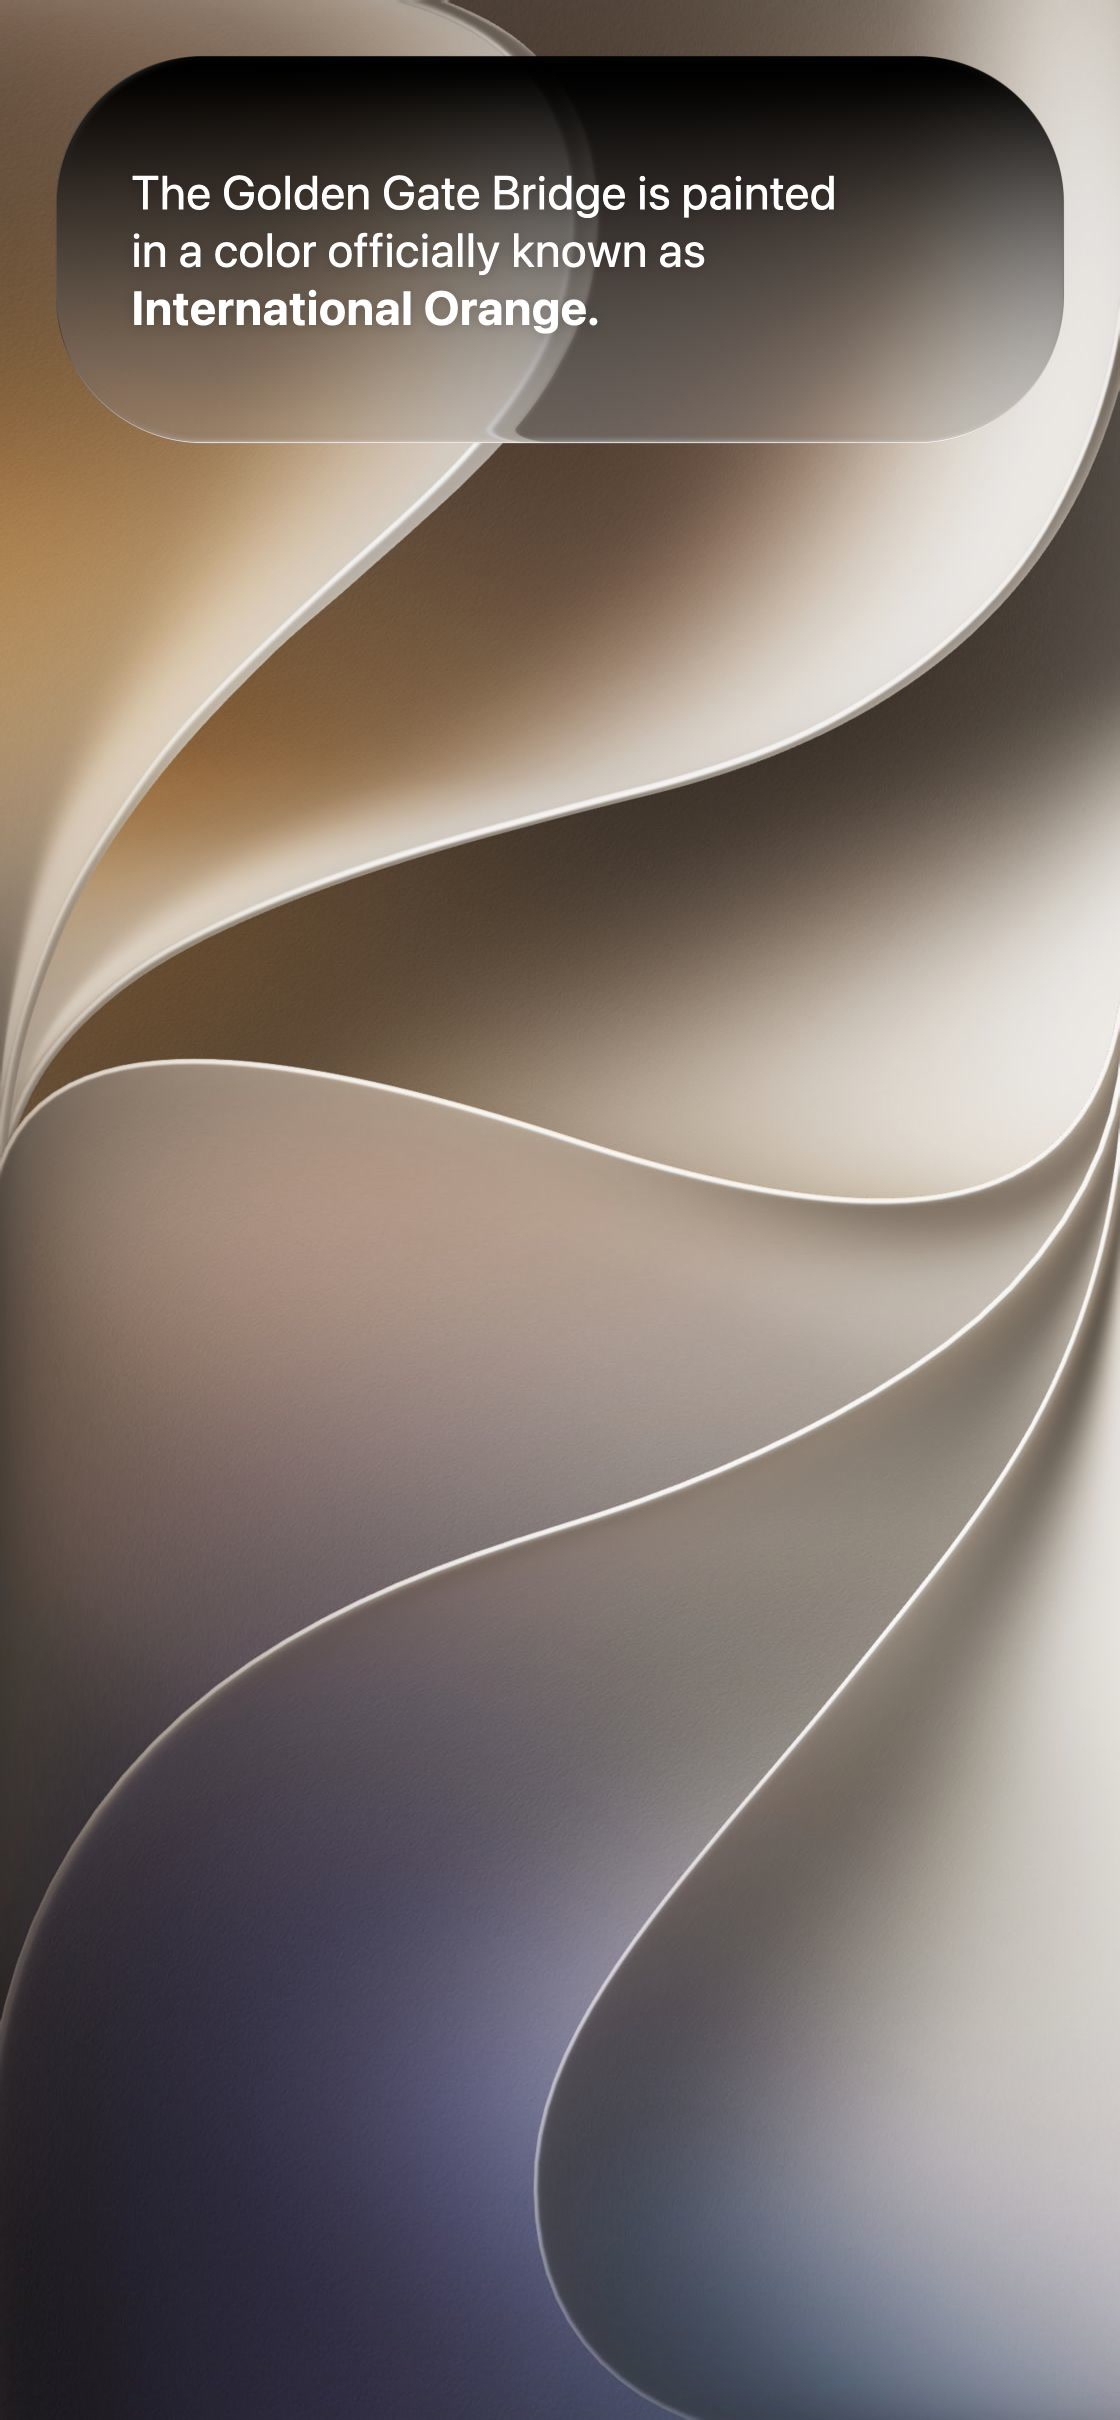
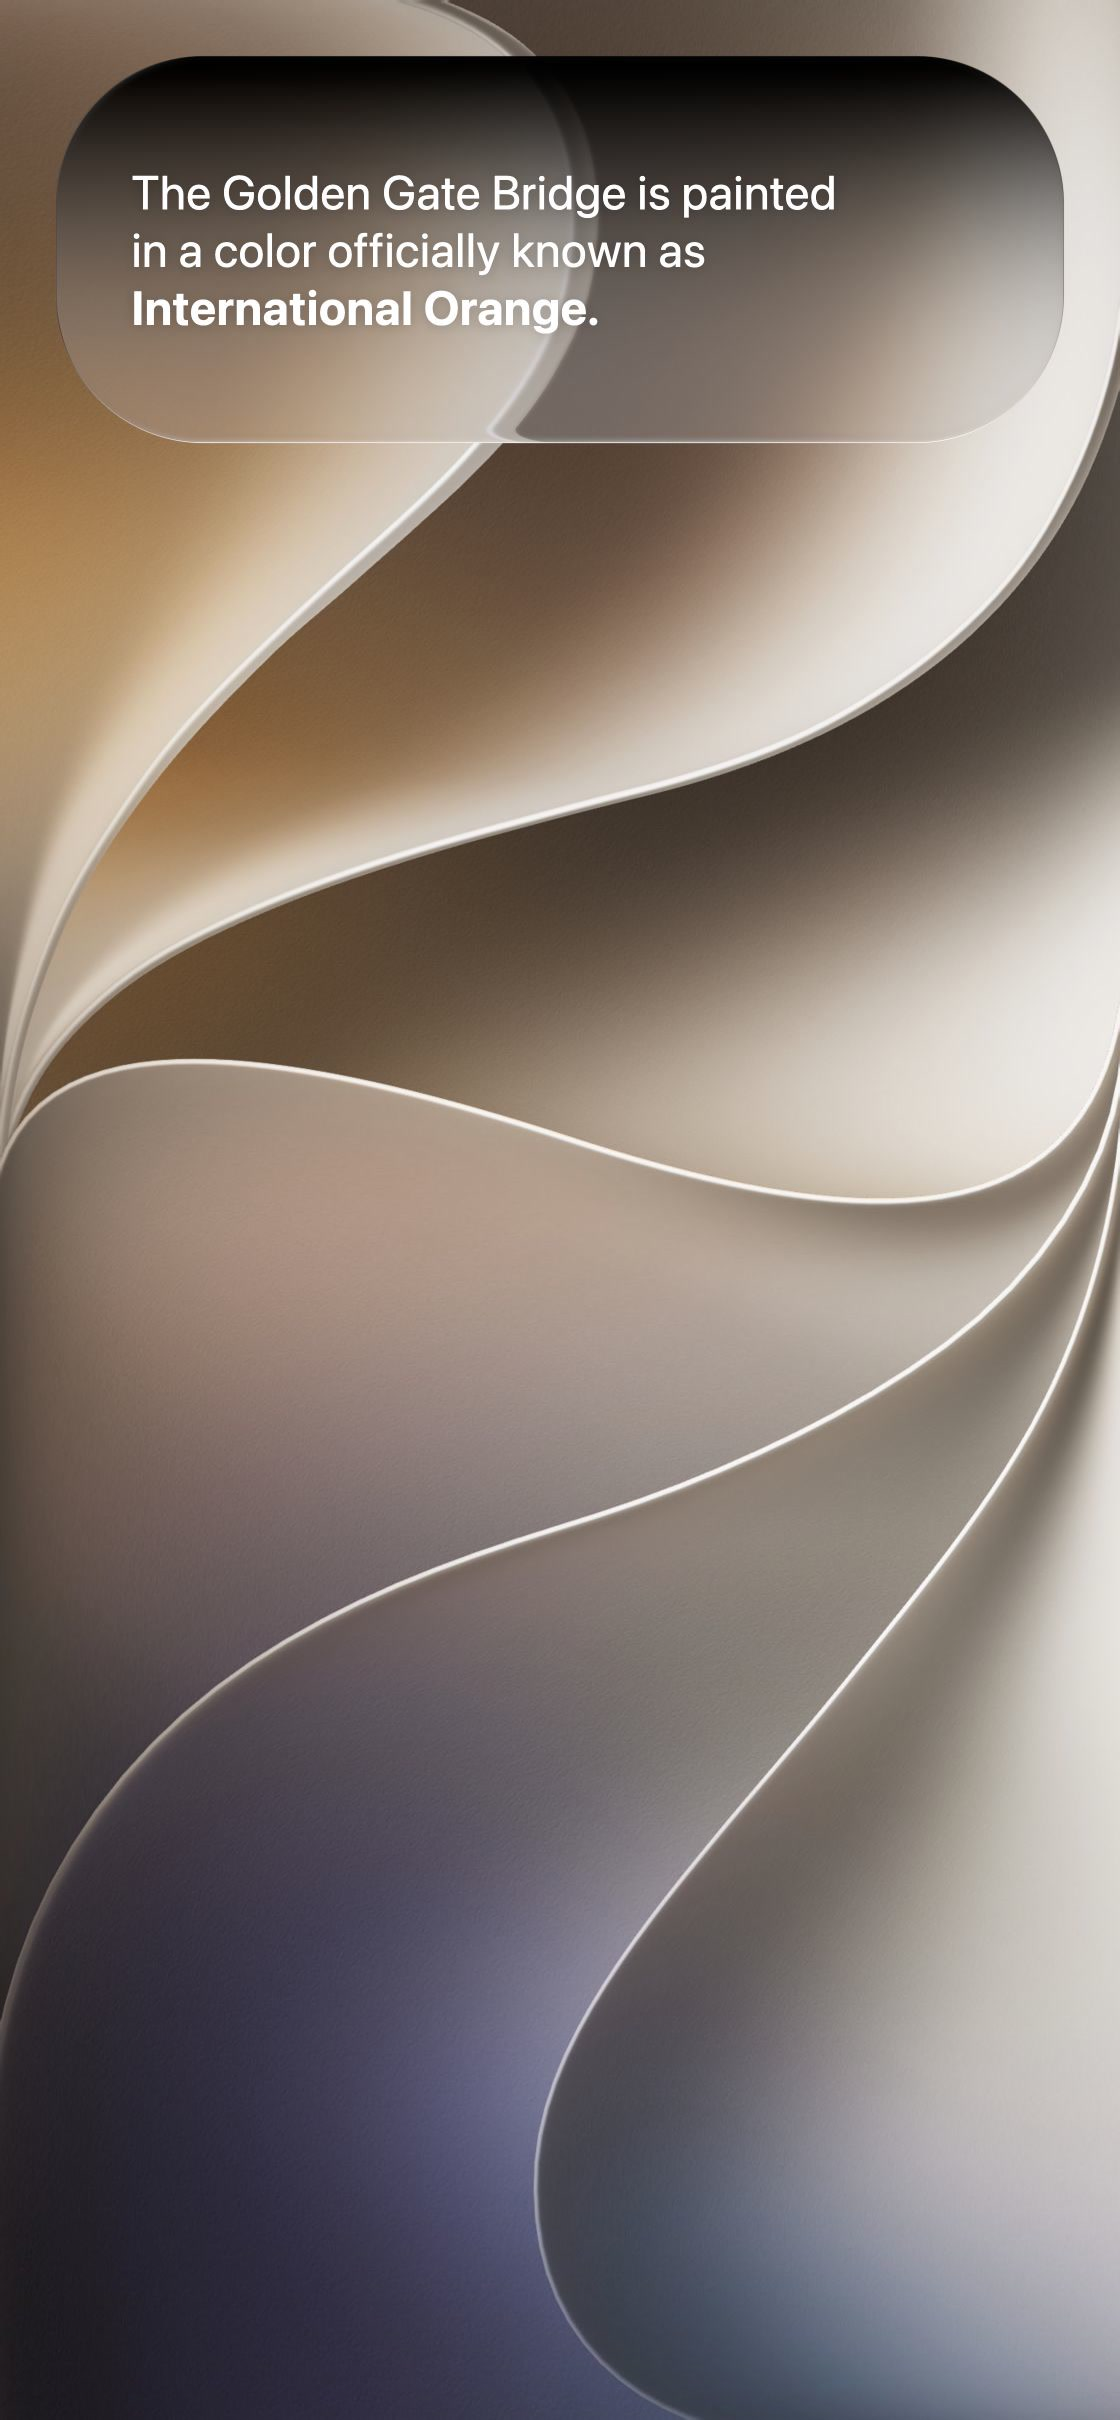
Align Web demo with reference preset

Changed region(s): [[0.0312, 0.031, 0.9688, 0.186]]

diff --git a/web/demo/index.html b/web/demo/index.html
@@ -1198,7 +1198,7 @@ const glass = new LiquidGlass(canvas);
 const P = {
   width: 90, height: 16, containerScale: 100,
   corner: 76, bevel: 48, profile: 330,
-  blur: 5, content: 100, contentHeight: 128, foregroundStop: 100,
+  blur: 5, content: 100, contentHeight: 350, foregroundStop: 100,
   ior: 125, inner: 110, outer: 79, dispersion: 8,
   roughness: 20, scatter: 20, reflection: 25, specular: 0,
   caustic: 48, canopy: 97, shadow: 0, shadowSoft: 16
